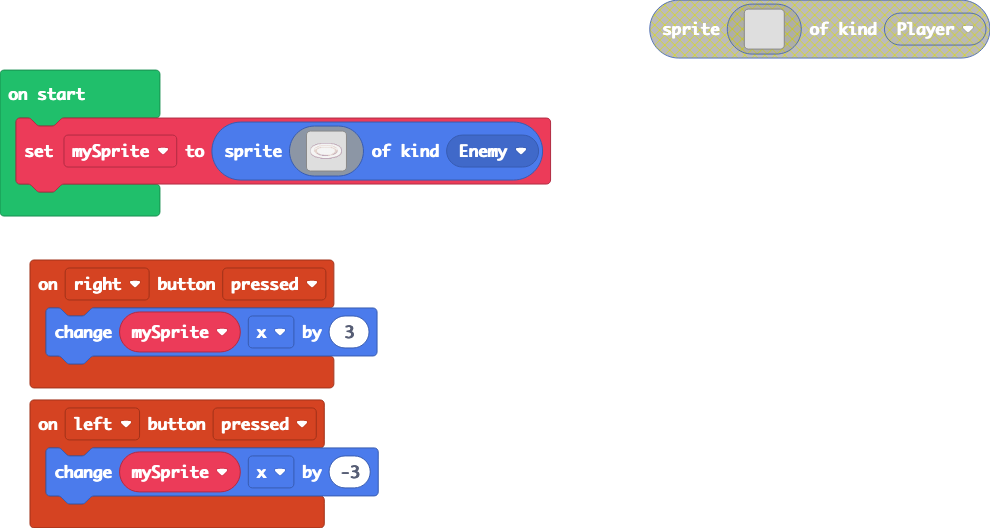
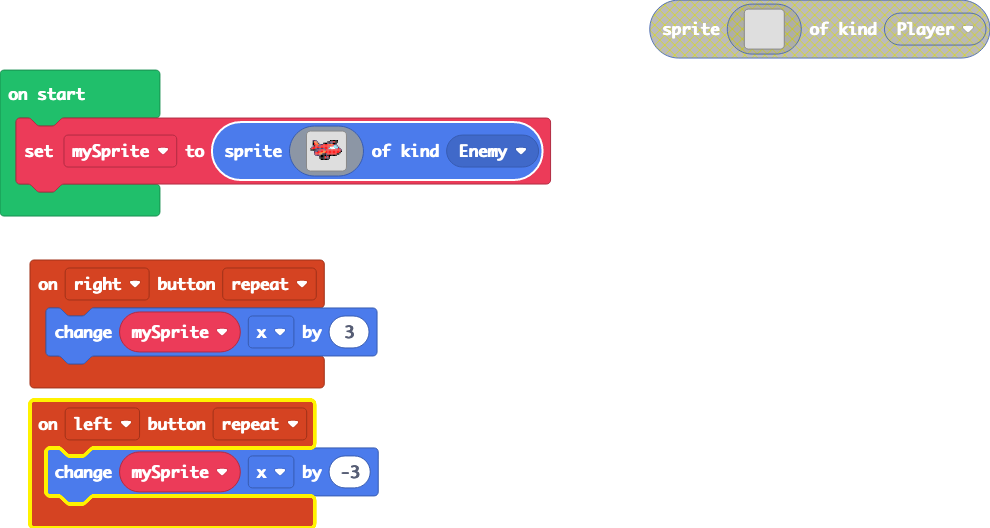
Plane sprite update

diff --git a/main.ts b/main.ts
@@ -1,33 +1,8 @@
-controller.left.onEvent(ControllerButtonEvent.Pressed, function () {
-    mySprite.x += -3
-})
-controller.right.onEvent(ControllerButtonEvent.Pressed, function () {
+controller.right.onEvent(ControllerButtonEvent.Repeated, function () {
     mySprite.x += 3
 })
+controller.left.onEvent(ControllerButtonEvent.Repeated, function () {
+    mySprite.x += -3
+})
 let mySprite: Sprite = null
-mySprite = sprites.create(img`
-    ...............bbbbbbbbbbbbbbbbbbb...............
-    ...........bbbbdd111111111111111ddbbbb...........
-    ........bbbd1111111111111111111111111dbbb........
-    ......bbd11111111dddddddddddddd111111111dbb......
-    ....bbd1111111ddd11111111111111dddd1111111dbb....
-    ...bd111111ddd111111111111111111111ddd111111db...
-    ..bd11111ddd111ddddddddddddddddddd111ddd11111db..
-    .bd11111dd111dddd111111111111111dddd111dd11111db.
-    .b11111d111ddd111111111111111111111ddd111d11111b.
-    bd11111d1ddd1111111111111111111111111ddd1111111db
-    b11111d1ddd111111111111111111111111111ddd1d11111b
-    b11111ddddd111111111111111111111111111ddddd11111b
-    b11111ddddd111111111111111111111111111dddbd11111b
-    b111111dddd111111111111111111111111111dddb111111b
-    bd111111dddd1111111111111111111111111dddbd11111db
-    .b1111111dddd11111111111111111111111dddbd111111b.
-    .bd1111111dbbdd1111111111111111111dddbbd111111db.
-    ..bd11111111dbbdd111111111111111dddbbd1111111db..
-    ...bd111111111dbbbbbbdddddddddddddd111111111db...
-    ....bbd11111111111dbbbbbbbbbddd11111111111dbb....
-    ......bbdd11111111111111111111111111111ddbb......
-    ........bbbdd11111111111111111111111ddbbb........
-    ...........bbbbbddd11111111111dddbbbbb...........
-    ................bbbbbbbbbbbbbbbbb................
-    `, SpriteKind.Enemy)
+mySprite = sprites.create(assets.image`Plane`, SpriteKind.Enemy)

diff --git a/images.g.ts b/images.g.ts
@@ -1,0 +1,37 @@
+// Auto-generated code. Do not edit.
+namespace myImages {
+
+    helpers._registerFactory("image", function(name: string) {
+        switch(helpers.stringTrim(name)) {
+            case "image1":
+            case "Plane":return img`
+..ccc..........ffffff...
+..f44c.......ffcc22ff...
+..f244c...fffccccfff....
+..f2244ccc22224442cc....
+..cf22cc222222222b99c...
+.c222222222222b111999c..
+f222ccccccc22299111bb2c.
+fffffccc222c22222222222c
+...ccc22224422222222222f
+...c222244422222222222f.
+...c22244cffc2222222ff..
+....ccccffffcfffffff....
+.......ffff2c2f.........
+.......ffff2ccf.........
+........ffffff..........
+........................
+`;
+        }
+        return null;
+    })
+
+    helpers._registerFactory("animation", function(name: string) {
+        switch(helpers.stringTrim(name)) {
+
+        }
+        return null;
+    })
+
+}
+// Auto-generated code. Do not edit.
